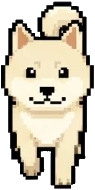
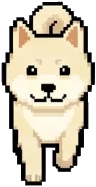
Give jindo a real 4-frame walk cycle instead of synthesized leg-lift
The user provided a proper walking-sprite-sheet reference for jindo
(4 rows = 4 real walk-cycle poses, 8 columns = 2 duplicate copies each
of right/left/up/down) after an earlier attempt to source walk frames
from a reference video ran into every "오른쪽" frame having dust
particles baked in with no clean window to extract from. This sheet
has no such artifacts.

Extracted 4 genuine frames per direction (down/up/left/right) from the
first column of each direction's pair, replacing the old 2
near-duplicate frames per direction.

Since synthesizeWalkCycle() (registerTextures.ts) unconditionally
overwrote frame _1 and added _2 for every image breed to fake leg
movement from a single pose, it would have clobbered these real frames
with synthetic ones. Added a check against IMAGE_BREEDS' real frame
count so any breed with 3+ real frames (jindo now) keeps its actual
animation instead of being synthesized over; every other breed still
gets the synthetic leg-lift treatment as before.

Claude-Session: https://claude.ai/code/session_013jkLq3mRHgzhcDHT4nuGg2

diff --git a/src/gfx/registerTextures.ts b/src/gfx/registerTextures.ts
@@ -83,9 +83,16 @@ function buildLegLiftCanvas(
 function synthesizeWalkCycle(scene: Phaser.Scene, breedId: string, dir: Dir): void {
   const marker = `${breedId}_${dir}`;
   if (walkCycleDone.has(marker)) return;
+  walkCycleDone.add(marker);
+
+  // Some breeds (jindo) now ship a real multi-frame walk cycle extracted
+  // directly from reference art instead of a single static pose — trust
+  // that real animation and don't overwrite it with a synthesized one.
+  const realFrameCount = IMAGE_BREEDS[breedId]?.[dir]?.length ?? 0;
+  if (realFrameCount >= 3) return;
+
   const key0 = `char_${breedId}_${dir}_0`;
   if (!scene.textures.exists(key0)) return;
-  walkCycleDone.add(marker);
 
   const src = scene.textures.get(key0).getSourceImage() as HTMLImageElement | HTMLCanvasElement;
   const w = src.width;
